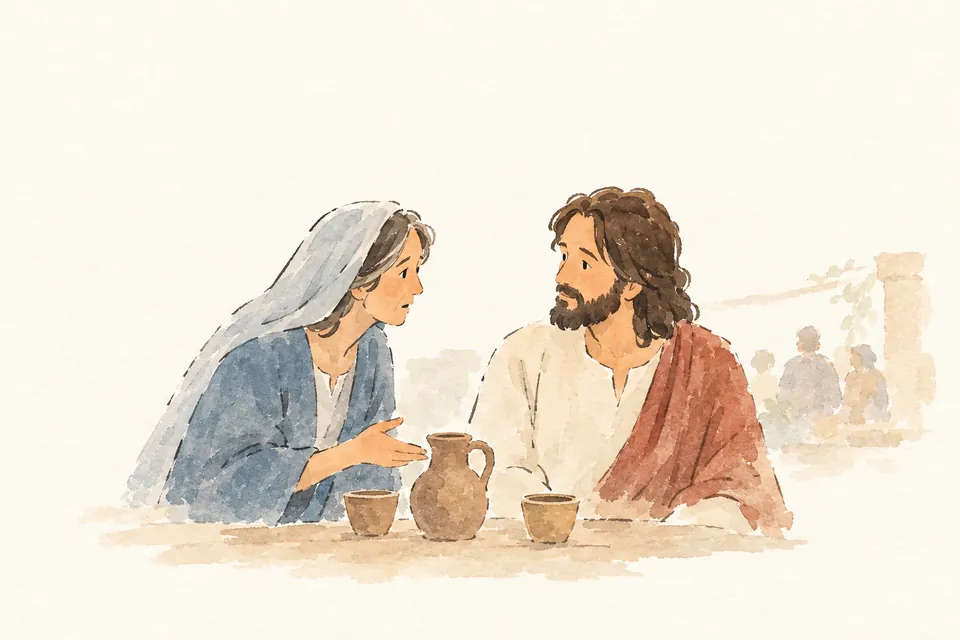
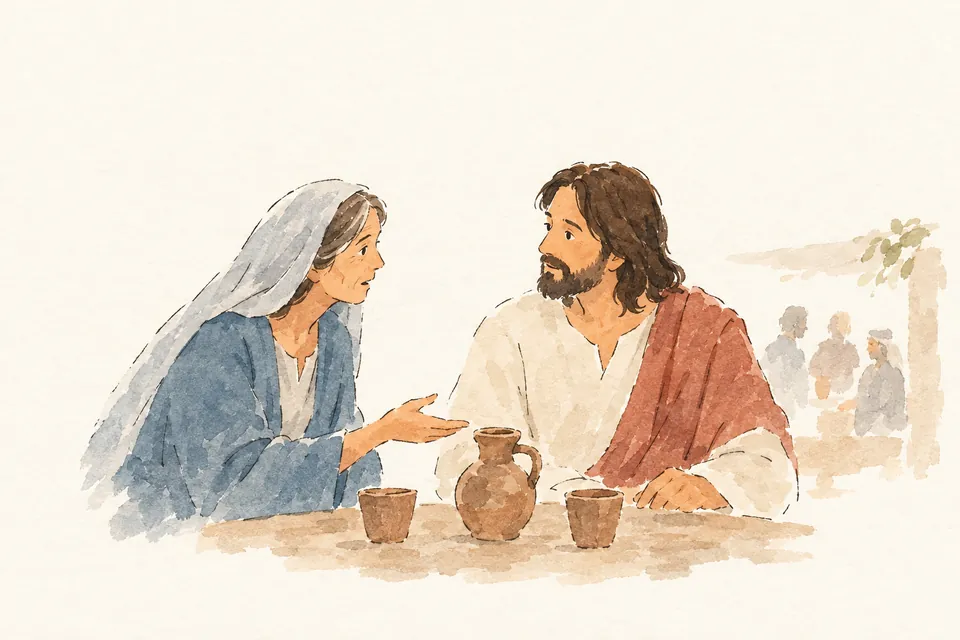
Johannes 2: Aquarellbilder reduziert, nichts mehr angeschnitten; Blindtest eingetragen (v0.137)
Claude-Session: https://claude.ai/code/session_01TBQM7kknaM7y3rfnKagLMB

Changed region(s): [[0.0625, 0.25, 1.0, 0.9375], [0.5938, 0.9062, 0.625, 0.9375]]

diff --git a/CHANGELOG.md b/CHANGELOG.md
@@ -2,6 +2,13 @@
 
 Änderungen am Bibel-Wissensfundus. Die Einträge v0.1–v0.5 sind aus den vorhandenen Paketen rekonstruiert; sie sind keine Behauptung über ursprüngliche Veröffentlichungsdaten. Alle fünf Pakete wurden am 8. Oktober 2026 nach GitHub übernommen. Der aktuelle Einstieg und die Bedienung stehen in [README.md](README.md), offene Arbeiten in [Status und Roadmap](docs/STATUS-UND-ROADMAP.md).
 
+## v0.137 — 2026-10-27 — Johannes 2: Aquarellbilder reduziert, nichts mehr angeschnitten
+
+Hinweis von Andi Neck (2026-10-27): Die Bilder waren am Rand abgeschnitten und zu detailliert, nicht wie im Styleguide beschrieben; gewünscht sind reduziertere Grafiken mit weniger Details.
+- **Aufträge** (`scripts/authoring/bilder_aquarell_daten/`): Stil als lockere Aquarellskizze (viel leeres Papier, wenige unterbrochene Linien, blasse Flächen ohne Schattierung und Falten, einfache Gesichter, Hintergrund weggelassen oder als eine Lavierung, Mengen nur angedeutet); Bildaufbau mit Rand rundherum, niemand vom Bildrand angeschnitten, Lavierung läuft ins Papier aus; je Szene weniger Personen. Das Figurenblatt dient nur noch der Zuordnung (wer ist wer), nicht als Detailvorlage.
+- **Johannes 2:** alle sieben Felder neu gemalt und ausgewählt; offene Punkte aus dem Blindtest eingearbeitet (Maria in Kana 1 sichtbar älter, Jesus spricht die Taubenhändler an, Fragende als ältere Tempelobere, Abstand in 2,23–25). Sprechblasen mit feinerer Linie.
+- **Prüfung:** Blindtest der reduzierten Fassung; Ergebnis und offene Punkte im Feld `check` (u. a. Maria in der Totale von Kana 2 kaum älter wirkend – ein Neumalen ergab nur fünf Krüge und wurde verworfen). Keine fachliche und keine muttersprachliche Prüfung.
+
 ## v0.136 — 2026-10-27 — Bildstil «Visuelle Bibel» V1.2; Johannes 2 als Aquarell-Comic
 
 Entscheid von Andi Neck (2026-10-27): Styleguide «Visuelle Bibel» V1.2 (minimalistischer Aquarell-Comic) ins Konzept aufnehmen und auf Johannes 2 anwenden; die bisherigen Bilder ersetzen.
